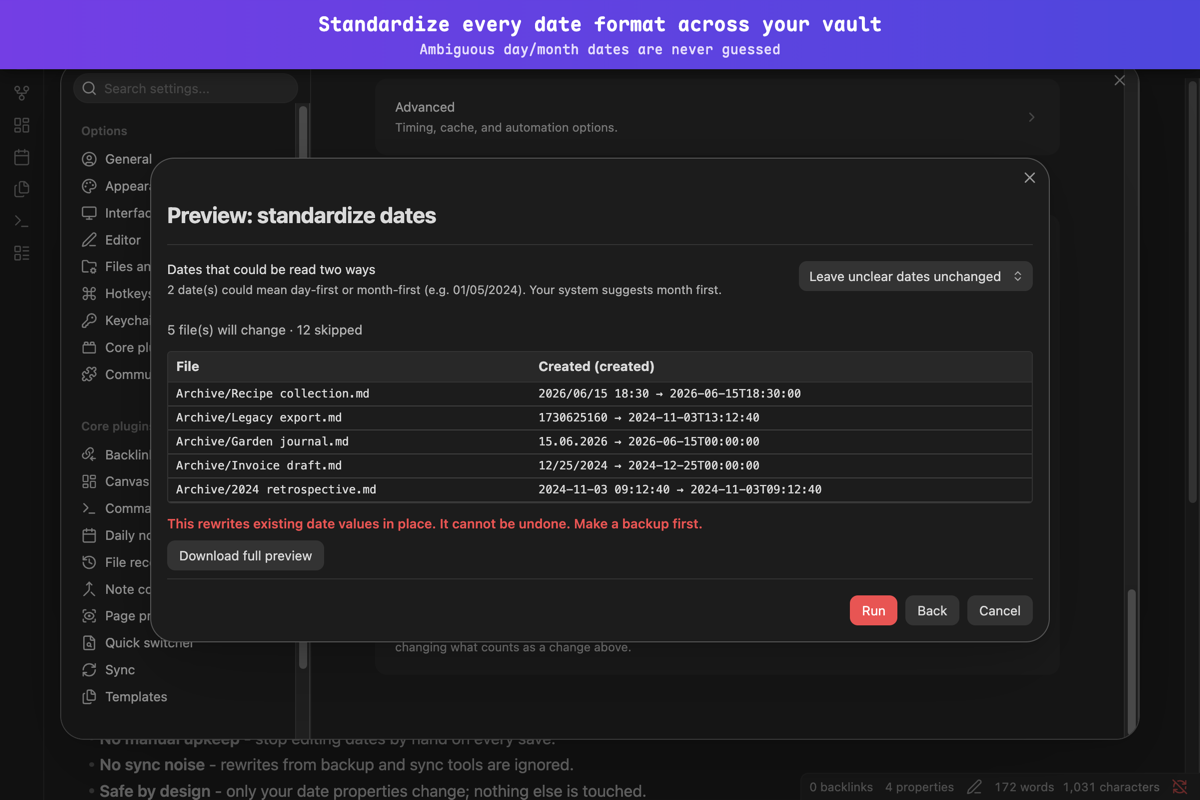
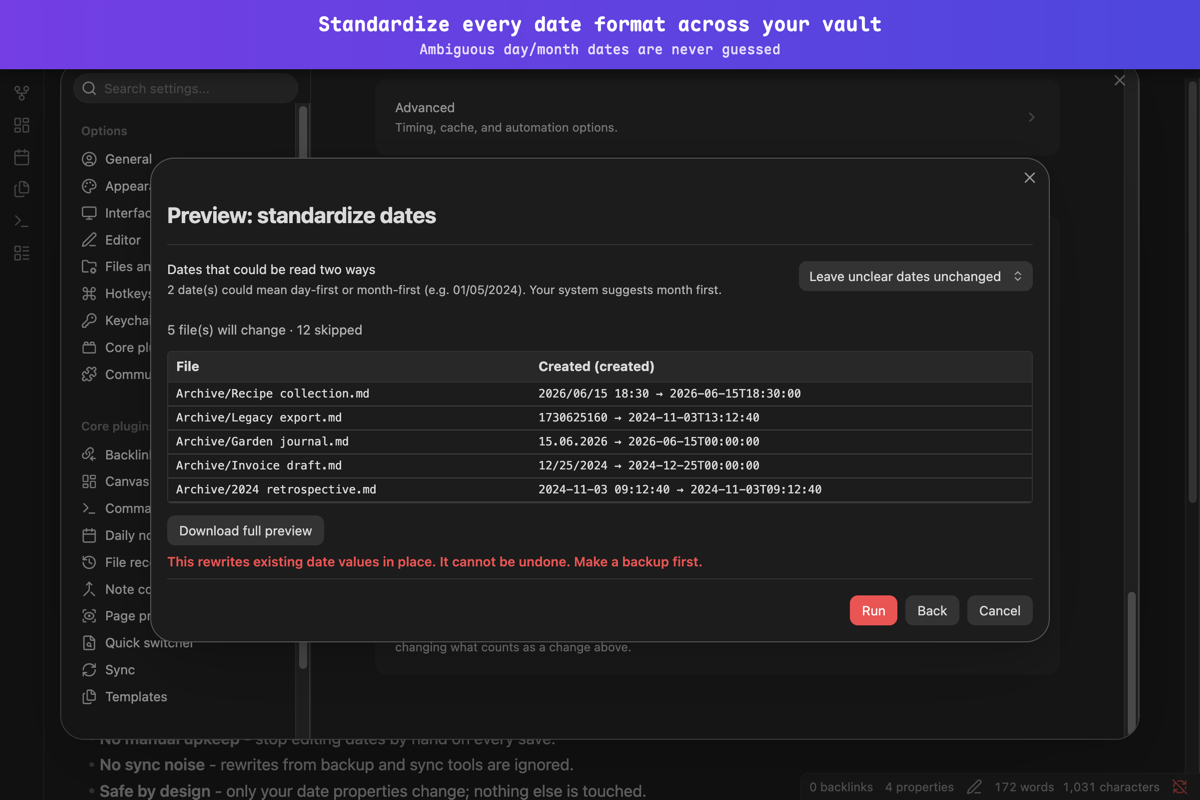
fix(bulk): #28 Put each download button under the table it downloads
The bulk previews could show a second table (values that will not be written) with its own button labelled exactly like the full-preview one, and the full-preview button ended up under the wrong table - with the irreversibility warning squeezed between the two in the reformat preview.

- The full-preview button now sits right under the diff table; the skipped-values table follows with its own button, and warnings come last, next to Run.
- Every list table (skipped notes, failures, values not written) labels its button "Download this list", translated into all 21 languages.
- Regenerate the reformat store screenshot for the new order.

Changed region(s): [[0.1233, 0.625, 0.5858, 0.7188], [0.3392, 0.125, 0.37, 0.1562]]

diff --git a/src/bulk/chrome.ts b/src/bulk/chrome.ts
@@ -230,21 +230,23 @@ export function renderPaginatedDiffTable(
 export function renderDownloadPreviewButton(
   parent: HTMLElement,
   onClick: () => void,
+  // Under a list of skipped or failed notes the button says what it downloads
+  // ("Download this list"): a modal can show such a list next to the full
+  // preview, and two identical labels would not tell the files apart.
+  label: string = strings.bulkChrome.downloadFullPreview,
 ): void {
   if (Platform.isMobileApp) return;
   const wrapper = parent.createDiv({
     cls: 'frontmatter-date-manager-bulk-download',
   });
-  new ButtonComponent(wrapper)
-    .setButtonText(strings.bulkChrome.downloadFullPreview)
-    .onClick(() => {
-      onClick();
-    });
+  new ButtonComponent(wrapper).setButtonText(label).onClick(() => {
+    onClick();
+  });
 }
 
 /**
  * Render the list of items that failed during execution as a paginated
- * `File | Error` table plus a "Download full preview" button. This is the
+ * `File | Error` table plus a "Download this list" button. This is the
  * user-facing channel for execute-phase failures: `logError` is a no-op in
  * production, so the console shows nothing - the failing paths and reasons must
  * be presented here.
@@ -257,14 +259,18 @@ export function renderFailureTable(
   const columns = [strings.common.file, strings.bulkChrome.failureColumnError];
   const rows = failures.map((f) => [f.label, f.message]);
   renderPaginatedDiffTable(parent, { columns, rows });
-  renderDownloadPreviewButton(parent, () => {
-    downloadPreviewAsFile(
-      plugin,
-      columns,
-      rows,
-      'frontmatter-date-manager-failures',
-    );
-  });
+  renderDownloadPreviewButton(
+    parent,
+    () => {
+      downloadPreviewAsFile(
+        plugin,
+        columns,
+        rows,
+        'frontmatter-date-manager-failures',
+      );
+    },
+    strings.bulkChrome.downloadThisList,
+  );
 }
 
 /**
@@ -294,14 +300,18 @@ export function renderSkippedTable(
   const columns = [strings.common.file, strings.bulkChrome.skippedColumnReason];
   const rows = skipped.map((s) => [s.label, s.reason]);
   renderPaginatedDiffTable(section, { columns, rows });
-  renderDownloadPreviewButton(section, () => {
-    downloadPreviewAsFile(
-      plugin,
-      columns,
-      rows,
-      'frontmatter-date-manager-skipped',
-    );
-  });
+  renderDownloadPreviewButton(
+    section,
+    () => {
+      downloadPreviewAsFile(
+        plugin,
+        columns,
+        rows,
+        'frontmatter-date-manager-skipped',
+      );
+    },
+    strings.bulkChrome.downloadThisList,
+  );
 }
 
 export interface ProgressHandle {

diff --git a/src/ReformatDateModal.ts b/src/ReformatDateModal.ts
@@ -526,7 +526,21 @@ export class ReformatDateModal extends PhaseModal {
       return row;
     });
 
+    // Each download button sits right under the table it downloads (the
+    // `[check]` note explains rows of the diff, so it stays with it), and the
+    // warning stays next to the Run button it is about.
     renderPaginatedDiffTable(contentEl, { columns, rows });
+
+    if (this.slashOrder !== 'skip' && ambiguousCount > 0) {
+      contentEl.createDiv({
+        cls: 'frontmatter-date-manager-reformat-note',
+        text: strings.modals.reformat.checkNote,
+      });
+    }
+
+    renderDownloadPreviewButton(contentEl, () => {
+      downloadPreviewAsFile(this.plugin, columns, rows);
+    });
 
     if (notWritable.length > 0) {
       renderSkippedTable(
@@ -537,18 +551,7 @@ export class ReformatDateModal extends PhaseModal {
       );
     }
 
-    if (this.slashOrder !== 'skip' && ambiguousCount > 0) {
-      contentEl.createDiv({
-        cls: 'frontmatter-date-manager-reformat-note',
-        text: strings.modals.reformat.checkNote,
-      });
-    }
-
     renderWarning(contentEl, strings.modals.reformat.rewriteWarning);
-
-    renderDownloadPreviewButton(contentEl, () => {
-      downloadPreviewAsFile(this.plugin, columns, rows);
-    });
 
     renderButtonBar(contentEl, {
       primary: {

diff --git a/src/BulkPopulateTimestampsModal.ts b/src/BulkPopulateTimestampsModal.ts
@@ -442,7 +442,12 @@ export class BulkPopulateTimestampsModal extends PhaseModal {
       return row;
     });
 
+    // Each download button sits right under the table it downloads, and the
+    // warning stays next to the Run button it is about.
     renderPaginatedDiffTable(contentEl, { columns, rows });
+    renderDownloadPreviewButton(contentEl, () => {
+      downloadPreviewAsFile(this.plugin, columns, rows);
+    });
 
     if (notWritable.length > 0) {
       renderSkippedTable(
@@ -457,10 +462,6 @@ export class BulkPopulateTimestampsModal extends PhaseModal {
     if (isOverwrite) {
       renderWarning(contentEl, strings.modals.populate.previewOverwriteWarning);
     }
-
-    renderDownloadPreviewButton(contentEl, () => {
-      downloadPreviewAsFile(this.plugin, columns, rows);
-    });
 
     renderButtonBar(contentEl, {
       primary: {

diff --git a/src/i18n/locales/th.ts b/src/i18n/locales/th.ts
@@ -85,6 +85,7 @@ export const STRINGS_TH: Strings = {
     pagerNext: 'ถัดไป',
     pageInfo: 'หน้า {current} จาก {total}',
     downloadFullPreview: 'ดาวน์โหลดตัวอย่างทั้งหมด',
+    downloadThisList: 'ดาวน์โหลดรายการนี้',
     downloadSuccess:
       'ดาวน์โหลด {count} แถวเป็นไฟล์ {filename} ไปยังโฟลเดอร์ดาวน์โหลดแล้ว',
     downloadFailed: 'ไม่สามารถดาวน์โหลดไฟล์ตัวอย่างได้',

diff --git a/src/i18n/locales/uk.ts b/src/i18n/locales/uk.ts
@@ -86,6 +86,7 @@ export const STRINGS_UK: Strings = {
     pagerNext: 'Наступна',
     pageInfo: 'Сторінка {current} з {total}',
     downloadFullPreview: 'Завантажити повний попередній перегляд',
+    downloadThisList: 'Завантажити цей список',
     downloadSuccess:
       'Завантажено рядків: {count}. Файл {filename} у теці завантажень.',
     downloadFailed: 'Не вдалося завантажити файл попереднього перегляду.',

diff --git a/src/i18n/locales/ja.ts b/src/i18n/locales/ja.ts
@@ -92,6 +92,7 @@ export const STRINGS_JA: Strings = {
     pagerNext: '次へ',
     pageInfo: '{total} ページ中 {current} ページ',
     downloadFullPreview: '完全なプレビューをダウンロード',
+    downloadThisList: 'この一覧をダウンロード',
     downloadSuccess:
       '{count} 行をダウンロードしました。ファイル {filename} がダウンロードフォルダにあります。',
     downloadFailed: 'プレビューファイルをダウンロードできませんでした。',

diff --git a/src/i18n/locales/ru.ts b/src/i18n/locales/ru.ts
@@ -91,6 +91,7 @@ export const STRINGS_RU: Strings = {
     pagerNext: 'Следующая',
     pageInfo: 'Страница {current} из {total}',
     downloadFullPreview: 'Скачать полный предпросмотр',
+    downloadThisList: 'Скачать этот список',
     downloadSuccess:
       'Скачано строк: {count}. Файл {filename} в папке загрузок.',
     downloadFailed: 'Не удалось скачать файл предпросмотра.',

diff --git a/src/i18n/locales/fa.ts b/src/i18n/locales/fa.ts
@@ -87,6 +87,7 @@ export const STRINGS_FA: Strings = {
     pagerNext: 'بعدی',
     pageInfo: 'صفحه {current} از {total}',
     downloadFullPreview: 'دانلود پیشنمایش کامل',
+    downloadThisList: 'دانلود این فهرست',
     downloadSuccess:
       'تعداد {count} ردیف بهصورت {filename} در پوشه دانلودهای شما دانلود شد.',
     downloadFailed: 'دانلود پرونده پیشنمایش ممکن نشد.',

diff --git a/src/i18n/locales/ar.ts b/src/i18n/locales/ar.ts
@@ -86,6 +86,7 @@ export const STRINGS_AR: Strings = {
     pagerNext: 'التالي',
     pageInfo: 'الصفحة {current} من {total}',
     downloadFullPreview: 'تنزيل المعاينة الكاملة',
+    downloadThisList: 'تنزيل هذه القائمة',
     downloadSuccess:
       'تم تنزيل عدد الصفوف: {count}. الملف {filename} في مجلد التنزيلات.',
     downloadFailed: 'تعذّر تنزيل ملف المعاينة.',

diff --git a/src/i18n/locales/vi.ts b/src/i18n/locales/vi.ts
@@ -85,6 +85,7 @@ export const STRINGS_VI: Strings = {
     pagerNext: 'Sau',
     pageInfo: 'Trang {current} trên {total}',
     downloadFullPreview: 'Tải về bản xem trước đầy đủ',
+    downloadThisList: 'Tải về danh sách này',
     downloadSuccess:
       'Đã tải về {count} dòng dưới dạng {filename} vào thư mục tải về của bạn.',
     downloadFailed: 'Không thể tải về tệp xem trước.',

diff --git a/src/i18n/locales/ko.ts b/src/i18n/locales/ko.ts
@@ -85,6 +85,7 @@ export const STRINGS_KO: Strings = {
     pagerNext: '다음',
     pageInfo: '{total} 중 {current} 페이지',
     downloadFullPreview: '전체 미리 보기 다운로드',
+    downloadThisList: '이 목록 다운로드',
     downloadSuccess:
       '{count}개 행을 {filename} 파일로 다운로드 폴더에 저장했습니다.',
     downloadFailed: '미리 보기 파일을 다운로드하지 못했습니다.',

diff --git a/src/i18n/locales/fr.ts b/src/i18n/locales/fr.ts
@@ -87,6 +87,7 @@ export const STRINGS_FR: Strings = {
     pagerNext: 'Suivant',
     pageInfo: 'Page {current} sur {total}',
     downloadFullPreview: 'Télécharger l’aperçu complet',
+    downloadThisList: 'Télécharger cette liste',
     downloadSuccess:
       '{count} ligne(s) téléchargées sous {filename} dans votre dossier de téléchargements.',
     downloadFailed: 'Impossible de télécharger le fichier d’aperçu.',
